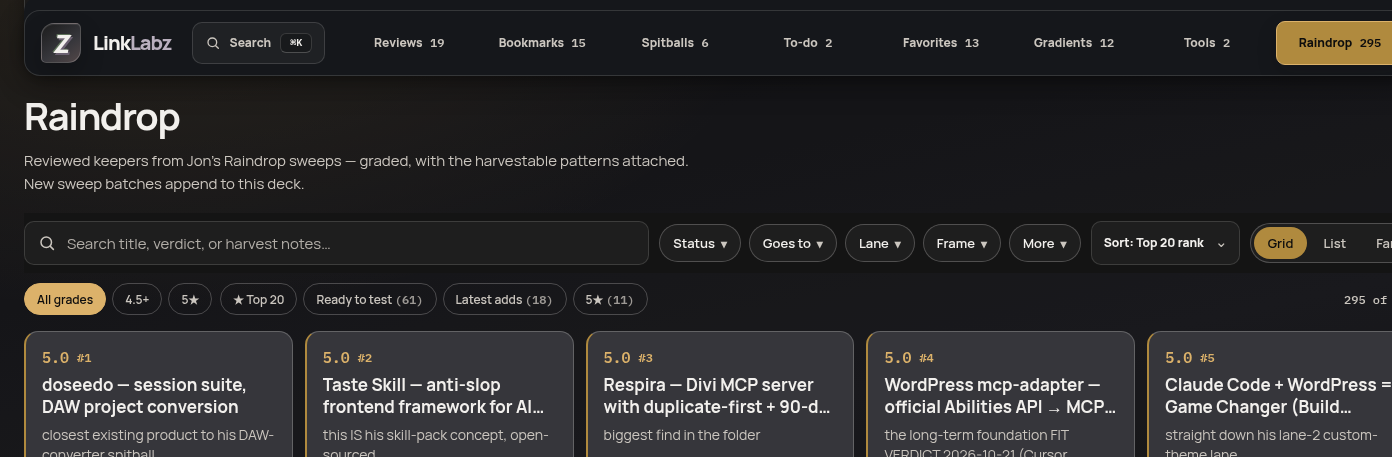
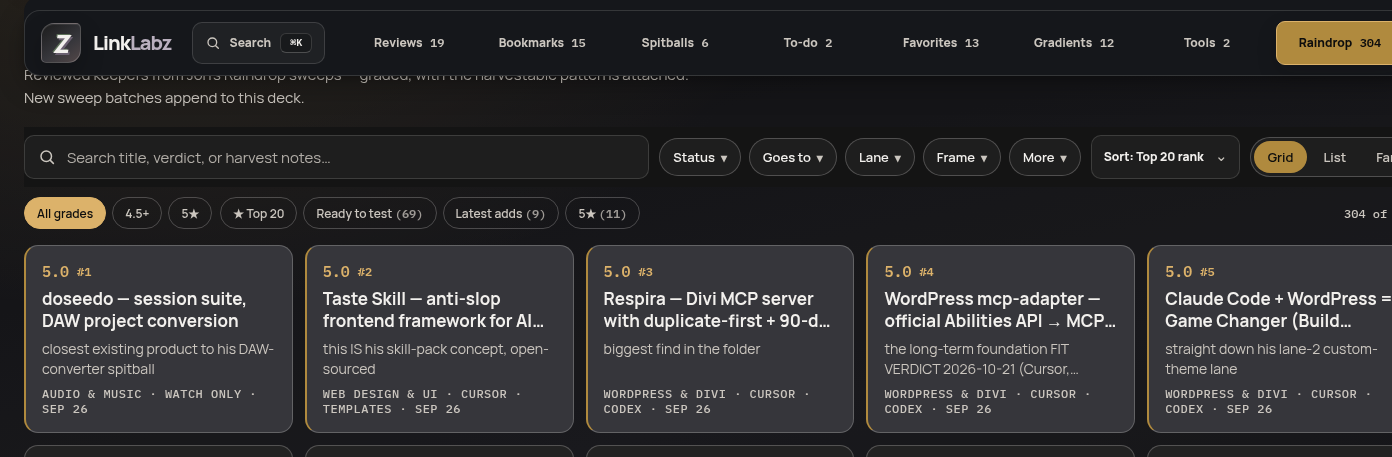
Round 27: screenshots refreshed + README stamps 20261124-r27
Hero (1135 reviewed / 304 board / Nov 24 eyebrow), Raindrop deck (304 of 304), mobile — all shot against the live Round 27 build.

diff --git a/README.md b/README.md
@@ -9,7 +9,7 @@
 
 **Live preview:** https://agentzlab.github.io/LinkLabz/
 
-![LinkLabz — the review board, dark mode](assets/screenshot.png?v=20261122-r26)
+![LinkLabz — the review board, dark mode](assets/screenshot.png?v=20261124-r27)
 
 ## What's inside
 
@@ -26,11 +26,11 @@ LinkLabz is Jon's visual link review board — a single-page app for working thr
 
 ## Screenshots
 
-![Raindrop keeper deck](assets/screenshot-raindrop.png?v=20261122-r26)
+![Raindrop keeper deck](assets/screenshot-raindrop.png?v=20261124-r27)
 
 *The Raindrop keeper deck — graded cards; click through for the full verdict and harvest notes.*
 
-![LinkLabz at phone width](assets/screenshot-mobile.png?v=20261122-r26)
+![LinkLabz at phone width](assets/screenshot-mobile.png?v=20261124-r27)
 
 *The board at phone width — the toolbar un-sticks on small screens so nothing jams.*
 
